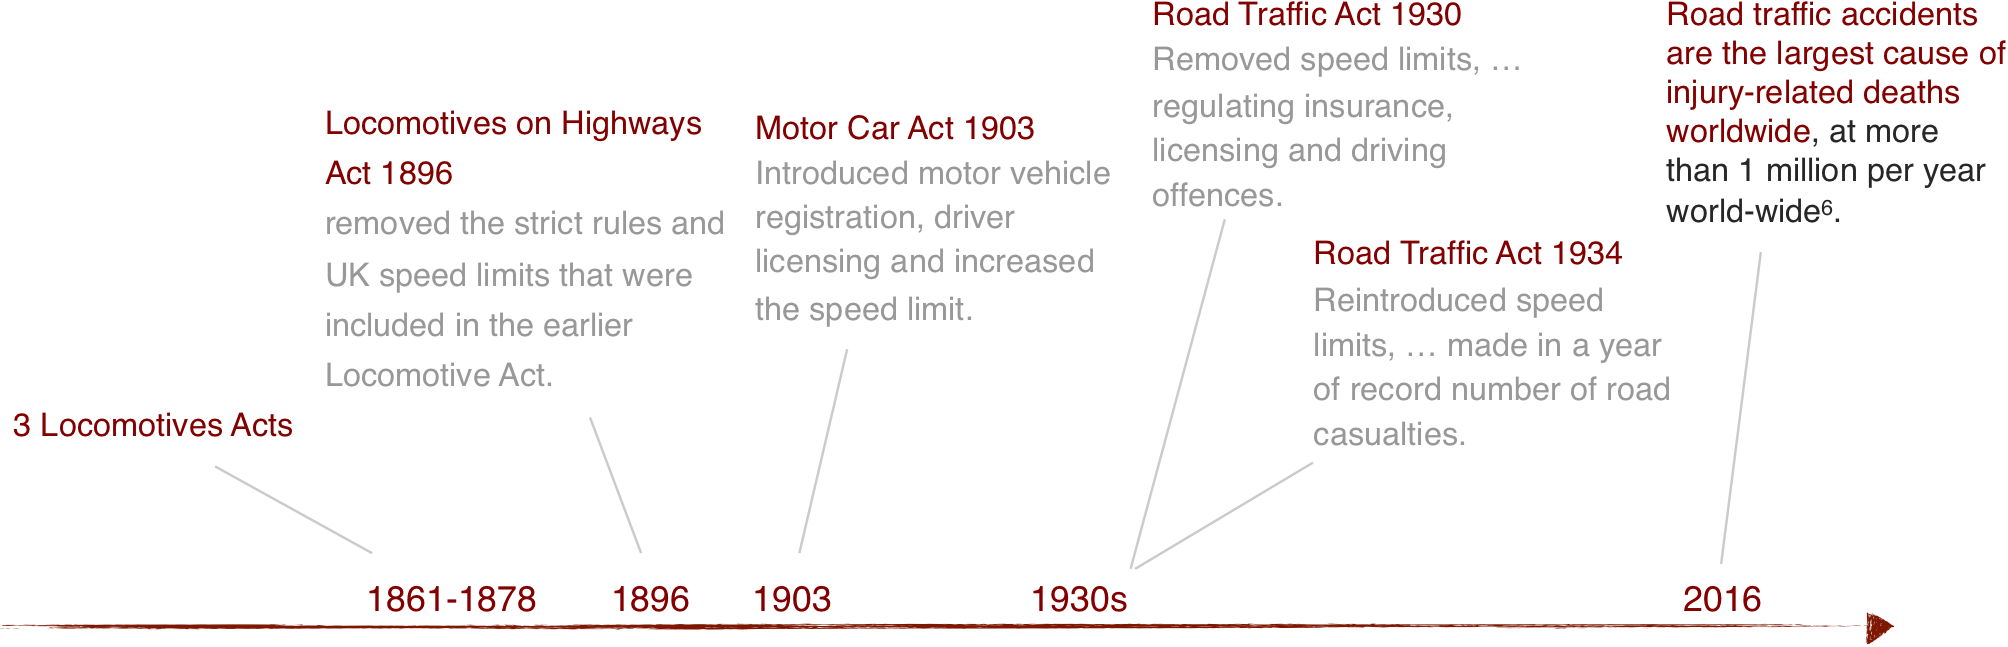
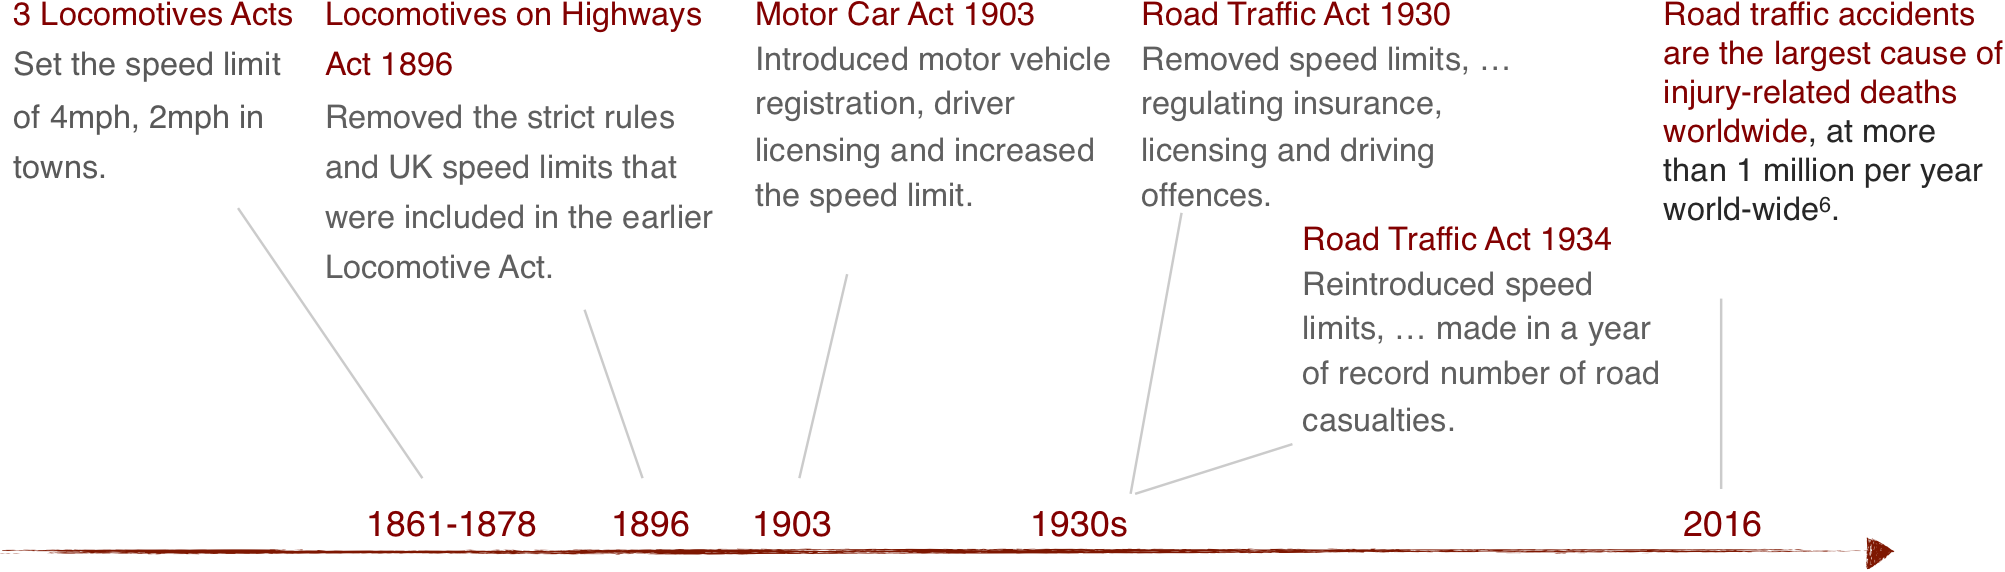
revised AI-cars post

diff --git a/content/post/ai_cars.md b/content/post/ai_cars.md
@@ -1,8 +1,8 @@
 ---
 title: "AI as ''Cars''? A Historic Analogy"
 description: "Three timelines in developing and adopting cars may shed light on what humanity would do with machine intelligence."
-date: "2019-07-01"
-draft: true
+date: "2019-07-10"
+draft: false
 categories:
   - "hmi"
   - "misc"
@@ -17,31 +17,35 @@ tags:
 <img style="float: left;"
 	src="/img/AI_cars/overview.png" Hspace="5" Vspace="10"><p />
   <small>
-    Fig. 1<sup>4</sup>: Overview of three evolving timelines in the development of cars. Top (green) - key events in the core component (engine) and systems (early car models). Middle (red) - key events in car and road-safety related legislation. Bottom (blue) - rough separation of eras in car styling. Key events selected from Wikipedia narratives on [cars](https://en.wikipedia.org/wiki/Car) and [history of the automobile](https://en.wikipedia.org/wiki/History_of_the_automobile)<sup>2</sup>. See article for discussion. For readability, time scales are not uniform.
+    Fig. 1<sup>4</sup>: Overview of three concurrently evolving timelines in the development of cars. Top (green) - key events in engine and early system developments. Middle (red) - key events in car and road-safety related legislations. Bottom (blue) - rough separation of eras in car styling. Key events selected from Wikipedia narratives on [cars](https://en.wikipedia.org/wiki/Car) and [history of the automobile](https://en.wikipedia.org/wiki/History_of_the_automobile)<sup>2</sup>. See article for discussion. For readability, time scales are not uniform.
   </small>
 
 <!--more-->
-AI (Artificial Intelligence) is entered everyday and media conversations in the past few years as both the boon and bane for our futures.
+In the past few years, AI (Artificial Intelligence) entered everyday conversations as both the boon and bane for our futures.
 <!-- s -->
-In this article, we narrate the development of cars since the 18th century as three concurrently evolving timelines<sup>2</sup> including the core technology, the legislation (and the needs driving it), and peripheral technologies.
+In this article, we draw a seemingly remote analogy between AI and cars.
 <!-- s -->
-All of these make the car a machine that we rely on and even enjoy in our daily lives.
+While separated by the software/hardware boundary, AI and cars are complex machinery that have been under rapid development for half a century or more, and is now (or will be) an integral part of our daily lives.
 <!-- s -->
-While on surface AI and cars are separated by the software/hardware boundary, both are very sophisticated machinery that have been under rapid development for half a century or more.
+We review the development of cars since the 18th century as three concurrently evolving timelines<sup>2</sup> including the core technology, the legislation (and the needs driving it), and peripheral components.
 <!-- s -->
-Both has fostered hope and fear that they will, or has already changed our lives and shaped our environment.
+The goal of the historical narrative is to highlight several similarities in the development of cars and AI,
+including the excitement of how new technology shape our world and the fear of its danger and negative effects.
+<!-- s -->
+The Chinese saying has it that one can use history as a mirror<sup>3</sup>, we hope this analogy will help the community reflect the path for AI and shape what may happen.
+<!-- s -->
 
-
+<!--
 We feel that this is the right time to reflect on the analogy physical and software machines,
-because our fears and worrries about AI wrecking harm bears resemblance with those experienced by our post industrial-revolution ancestors.
+because our fears and worries about AI wrecking harm bears resemblance with those experienced by our post industrial-revolution ancestors.
+s -->
+This post pays tribute to the recently launched ANU [Humanising Machine Intelligence](https://hmi.anu.edu.au/) (HMI) project.
 <!-- s -->
-The Chinese saying has it that one can use history as a mirror<sup>3</sup>, we hope this analogy will help the community think about the path forward for AI.
+The idea for writing it originated from a talk I gave at the invitation of HMI colleagues<sup>1</sup>.
 <!-- s -->
-In particular, this piece pays tribute to the recently launched ANU [Humanising Machine Intelligence](https://hmi.anu.edu.au/) (HMI) project。
-<!-- s -->
-Both because the idea for writing it originated from a workshop organised by HMI colleagues<sup>1</sup>,
-also because this post aims to engage readers in shaping the goals and approaches to humanising machine intelligence (MI) through a familiar machine.
-<!-- s -->
+We also aims to engage readers in shaping the goals and approaches to humanising machine intelligence (MI) through a familiar machine.
+<!-- s ... don't like the last sentence -->
+
 
 #### 1. Core components and systems
 
@@ -53,7 +57,7 @@ We start the discussion on cars from its core power source -- the engine.
 <figure class="asn-fig asn-left" style="max-width: 750px;">
     <img src="/img/AI_cars/engine.png">
     <figcaption>
-      Fig. 2: Timeline of early development activities for engines in the 1700s and 1800s and commercial automobile.
+      Fig. 2: Timeline of early development activities for engines in the 1700s and 1800s, and inception of the commercial automobile<sup>2</sup>.
     </figcaption>
 </figure>
 
@@ -77,7 +81,7 @@ The Ford Model T entered market in 1913, was the first mass produced and widely 
 
 One notable aspect of engine development is that many different technologies co-existed and co-evolved for a long period of time.
 <!-- s -->
-Take, for example, steam engines took on new energy in the 1950s when nuclear power became available for industrial use.
+Take, for example, steam engines had a revival in the 1950s when nuclear power became available for industrial use.
 <!-- s -->
 On the other hand, electric engines started in 1928, but it wasn't until the 2000s that they became widely available to the average driver.
 
@@ -89,37 +93,33 @@ Over the last few decades, many new algorithms are being invented and perfected 
 <!-- s -->
 The development of new algorithms will continue by the growing community of machine intelligence researchers.
 <!-- s -->
-We should expect a constant stream of incremental improvements for the currently most popular algorithm paradigm - neural networks, as well as occasional disruptive changes.
+We should expect a constant stream of incremental improvements for the currently most popular algorithm paradigm - such as neural networks, as well as occasional disruptive changes.
 <!-- s -->
-Take, for example, [electric cars](https://en.wikipedia.org/wiki/Electric_car) went from experimental to mass-market in the last decade, and [solar car](https://en.wikipedia.org/wiki/Solar_car) product was only recently [shown to public](https://www.engadget.com/2019/07/04/lightyear-one-solar-car-goodwood/).
+Take, for example, [electric cars](https://en.wikipedia.org/wiki/Electric_car) went from experimental to mass-market in the last decade, and [solar car](https://en.wikipedia.org/wiki/Solar_car) product was only recently [shown to public](https://www.engadget.com/2019/07/04/lightyear-one-solar-car-goodwood/). One may ask if another algorithm may replace neural networks soon?
 <!-- s -->
-For cars, multiple engine types, namely steam, electric, and internal combustion, coexisted for a long time.
+The coexistence of multiple core technologies also holds for machine intelligence algorithms -- not every machine learning problem needs a deep neural network -- generalised linear models, boosting and ensemble classifiers, kernel machines, and others will continue to play their roles in a variety of scenarios.
 <!-- s -->
-The same holds for machine intelligence algorithms -- not every machine learning problem needs a deep neural network, generalised linear models, boosting and ensemble classifiers, kernel machines, and others will continue to play their roles in a variety of scenarios.
-<!-- s -->
-What this implies is that students of machine learning should aim to build a broad foundation of different mathematical tools and decision-making paradigms, to be able to adapt and propel to the technolgy shifts in the future.
+What this implies is that students of machine learning should aim to build a broad foundation of different mathematical tools and decision-making paradigms, to be able to adapt and propel to the technology shifts in the future.
 
 <!-- s -->
-Our other observation is that whole-system prototypes and engines are developed simultaneously.
+We also observe that whole-system prototypes and engines are developed simultaneously.
 <!-- s -->
 Internet companies have been practicing building large online systems driven by machine intelligence algorithms for the past two decades or so.
 <!-- s -->
 Each large company has its home-brew machine learning systems and peripheral components.
-<!-- s -->
-As we now know many negative aspects including bias and unfair effects on their users have only recently been noticed.
-<!-- s -->
-Much of these systems and practices are so application specific that do not directly translate to other problem domains.
+<!-- s
+Much of these systems and practices are application specific and do not directly translate to other problem domains. -->
 <!-- s -->
 Cars has evolved for more than a decade (1885 to 1913) from being a niche product (Benz Motowagen) to a mass market (Ford Model T).
 <!-- s -->
-The technical community are working hard on comomon components and reusable systems, one may wonder what the "Model T" equivalent of machine learning looks like?
+The technical community are working hard on common components and reusable systems, one may wonder what the "Model T" equivalent of machine learning looks like?
 
 
 #### 2. Legislation
 
-An automobile consist of a many sophisticated parts working together, for mechanical efficiency, safety, and passenger comfort.
-<!-- s -->
-But every complex machine can fail, sometimes due to [faulty parts](https://www.toyota.com.au/news/toyota-australia-ahead-of-schedule-takata-airbag-recall-expansion), sometimes due to humans who are inside or outside the car.
+<!-- An automobile consist of a many sophisticated parts working together, for mechanical efficiency, safety, and passenger comfort.
+s -->
+Every complex machine can fail, sometimes due to [faulty parts](https://www.toyota.com.au/news/toyota-australia-ahead-of-schedule-takata-airbag-recall-expansion), sometimes due to humans who are inside or outside the car.
 <!-- s -->
 The history of car accidents and mishaps is as long as the history of the car itself.
 <!-- s -->
@@ -127,13 +127,14 @@ The [first fatal accident](https://en.wikipedia.org/wiki/Mary_Ward_(scientist)) 
 <!-- s -->
 The year 1896 saw the [first pedestrian fatality](https://en.wikipedia.org/wiki/Death_of_Bridget_Driscoll) in London when the car was traveling at 4 miles per hour.
 <!-- s -->
-Legislations on the behaviours of cars and humans in and around them developed after these unfortunate events and the need to integrate automobile to society.
-<!-- the above sentence is lame -->
+Legislations on the behaviours of cars and humans developed thereafter.  
+<!-- the need to integrate automobile to society.
+ the above sentence is lame -->
 
 <figure class="asn-fig asn-left" style="max-width: 800px;">
     <img src="/img/AI_cars/legislation.png">
     <figcaption>
-      Fig. 3: Timeline of development of automotive legislation<sup>5</sup>.
+      Fig. 3: Development timeline of early automotive legislations<sup>5</sup>.
     </figcaption>
 </figure>
 
@@ -146,7 +147,8 @@ The second edition [The Locomotive Act 1865](https://en.wikipedia.org/wiki/Locom
 This restriction essentially eliminated the advantage of cars over horse-drawn carriages,
 and was a result of powerful lobbying by those with interests in railways and horse-drawn vehicles.
 <!-- s -->
-[The Locomotives on Highways Act 1896](https://en.wikipedia.org/wiki/Locomotives_on_Highways_Act_1896) relaxed the speed limit to 14 mph, set in comparison to 'furious driving' of horse carriages.
+[The Locomotives on Highways Act 1896](https://en.wikipedia.org/wiki/Locomotives_on_Highways_Act_1896)
+relaxed the speed limit to 14 mph, set in comparison to 'furious driving' of horse carriages.
 <!-- s -->
 This event has been celebrated by motor enthusiasts with the [London to Brighton Run](https://en.wikipedia.org/wiki/London_to_Brighton_Veteran_Car_Run) to this day.
 <!-- s -->
@@ -156,7 +158,7 @@ In [1930](https://en.wikipedia.org/wiki/Road_Traffic_Act_1930), the speed limit 
 <!-- s -->
 The documented reason was that it was difficulty to enforce.
 <!-- s -->
-Four years later, in the face of a record number of road casualties (7,343 deaths and 231,603 injuries), [Road Traffic Act 1934](https://en.wikipedia.org/wiki/Road_Traffic_Act_1934) reintroduced a 30mph speed limit in built-up areas - a limit which is similar to those in use today.
+Four years later, in the face of a record number of road casualties (7,343 deaths and 231,603 injuries), [Road Traffic Act 1934](https://en.wikipedia.org/wiki/Road_Traffic_Act_1934) reintroduced a 30mph speed limit in built-up areas - a limit similar to those in use today.
 <!-- s -->
 
 Key measures of safety and liability was also developed in the same era, including car registration, classification of motor vehicles, driver licensing, driving test, requirement for insurance, driving offences, and others.
@@ -166,30 +168,40 @@ The automotive industry is heavily regulated.
 <!-- s -->
 Regulations cover how different components are designed, what safety features are included, and the overall performance of any given vehicle, such as noise and emission levels.
 <!-- s -->
-In addition, there are independent agencies who provide vehicles safety ratings and extensive consumer surveys on user ratings.  
+In addition, there are independent agencies who provide vehicles safety ratings and extensive consumer surveys on user ratings.
 <!-- s -->
-As recent incidents show, the regulation of machine intelligence systems is in its very early stages, if existing at all.
+As recent incidents show, the regulation of machine intelligence systems is in its very early stages.
 <!-- s -->
 One main part of existing regulation is around data protection and access restrictions.
 <!-- s -->
-But they are far from sufficient, when hidden attributes such as race and gender [can be inferred even if not explicitly collected](https://news.cornell.edu/stories/2019/01/study-ai-may-mask-racial-disparities-credit-lending).
+But they are far from sufficient, for instance, hidden attributes such as race and gender [can be inferred even if not explicitly collected](https://news.cornell.edu/stories/2019/01/study-ai-may-mask-racial-disparities-credit-lending).
+<!-- s -->
+Just like the [emission standards](https://en.wikipedia.org/wiki/Volkswagen_emissions_scandal), MI companies should be transparent on what data is collected and how its used.
+<!-- s -->
+The public should not be shocked at what [our voice assistants at home listens to](https://www.wired.com/story/whos-listening-talk-google-assistant/).
 <!-- s
 Another salient difference is the scale of influence of a machine intelligence system - which can affect thousands of people e.g. in a banking application, or all internet users, e.g. in online search. Compared to automobile safety, which each individual failure affects the driver, passenger, and people in their immediate physical surroundings.
 -->
 
-In addition to regulating the components and processes of the machine (cars), we also need regulations for people and behaviours around the machine. Such as drivers' license, penalties for reckless driving, and protocols for insurance and liability in general.
+In addition to regulating the components and processes of the machine (cars), we can ponder what the machine intelligence counterparts may be for behaviour and competence.
+<!-- we also need regulations for people and behaviours around the machine. Such as drivers' license, penalties for reckless driving, and protocols for insurance and liability in general.
+-->
 <!-- s -->
-In machine intelligence, should practitioners hold a license (a university-level course in the subject, a graduate degree, or something else), and be subjected to continuous monitoring (such as eye sight and cognitive abilities for driving a car)? Who should be liable for mishaps resulting from the machine intelligence system -- the practitioner, the company employing them, or the producer of the original algorithm?
+Should practitioners hold a license (or a university-level course in the subject, or a graduate degree), and be subjected to continuous monitoring (such as the learning and re-certification required for medical practitioners)?
+<!-- s -->
+Who should be liable for mishaps resulting from the machine intelligence system -- the practitioner, the company employing them, or the producer of the original algorithm?
 
 <!-- s -->
-There is considerable urgency for machine intelligence researchers, practitioners and society at large to understand the safety, moral and ethical implications of MI systems. Starting from requiring more transparency behind the effect of algorithms behind blackbox models in different companies, and devising standards and protocols for liability. The hope that this will happen more proactively, rather than reactively -- such as reacting to record number of accidents in the case of Road Traffic Act 1934.
+There is considerable urgency for machine intelligence researchers, practitioners and society at large to understand the safety, moral and ethical implications of MI systems.
+<!-- s -->
+The hope that this will happen more proactively, rather than reactively -- one hopes that we will do better than reacting to record number of accidents for Road Traffic Act 1934.
 
 
 #### 3. Peripheral components and eras of evolution
 
 It is estimated that over 100,000 patents created the modern automobile and motorcycle<sup>8</sup>.
 <!-- s -->
-Besides the chassis and [powertrain](https://en.wikipedia.org/wiki/Powertrain) that can be considered as the skeleton and muscular system of the car, many other components make the rest of the machine practical, comfortable and even enjoyable to drive (and ride).
+Besides the chassis and [powertrain](https://en.wikipedia.org/wiki/Powertrain) that can be considered as the skeleton and muscular system of the car, many other components make the rest of the machine practical, comfortable and even enjoyable to drive and ride.
 <!-- s -->
 Figure 4 lays out a timeline of the [five eras of invention](https://en.wikipedia.org/wiki/History_of_the_automobile#Eras_of_invention), and a non-exhaustive list of common components.
 
@@ -204,19 +216,19 @@ Figure 4 lays out a timeline of the [five eras of invention](https://en.wikipedi
 There are direct analogies from some of these parts to those in a machine intelligence system.
 <!-- s -->
 The notion of a dashboard is now commonplace in deployed machine learning systems<sup>9</sup>,
-the importance of which is underscored by well-publicized cases of drift and failure over time in non-mission critical systems<sup>10</sup>.
+the importance of which is underscored by well-publicized cases of data drift and prediction failure over time in non-mission critical systems<sup>10</sup>.
 <!-- s -->
-Other analogies may be still open for imagination, such as the counter-part of headlights, Antilock Breaking System (ABS), and others?
+Other analogies may be still open for imagination, such as the counter-part of headlights, Antilock Breaking System (ABS), and others.
 
-On the adoption and use of automobiles, the machine went from hobbist or requiring specialised knowledge to operate (chauffeurs) to being a skill that a large fraction of the population has.
+On the adoption and use of automobiles, the machine went from being operated by hobbist or requiring specialised knowledge to operate (chauffeurs) to being a skill that a large fraction of the population has.
 <!-- s -->
 In the understanding and maintenance of automobiles, on one hand the reliability improved so much that a driver no longer need to be prepared to stop on the road, pop the hood open, and supply crucial liquids (water, oil, fluid).
 <!-- s -->
 On the other hand, the contents of popular mechanics and fix-your-own-car videos has proliferated, that people can learn to fix many small problems via self-education.
 <!-- s -->
-One may ask, what will it take for machine learning to be both care-free and accessible for novices and enthusiasts alike?
+One may ask, what will it take for machine learning to be both accessible for novices and enthusiasts alike?
 
-Finally, one may ask what machine intelligence applications may evolved into, analogous to the diverse style and function landscape of automobiles, e.g., 4-wheel drives, sedans, convertibles, SUVs, pickups, vans, buses, or even [road trains](https://en.wikipedia.org/wiki/Road_train)?
+Finally, one may ask what machine intelligence applications may evolved into, analogous to the diverse style and function landscape of automobiles, e.g., 4-wheel drives, convertibles, SUVs, trucks, vans, buses, or even [road trains](https://en.wikipedia.org/wiki/Road_train)?
 
 
 #### Parting thoughts
@@ -227,11 +239,13 @@ This is despite the fact that automobiles brought dramatic changes in how we tra
 
 The recent development on AI and machine intelligence may seem scary because much of their effects and implications are unknown.
 <!-- s -->
-One may think that in the early 20th century, people may have approached cars with the same level of apprehension.
+In the early 20th century, people have approached cars with the same level of apprehension.
 <!-- s -->
 The not-so-short history on how humans _humanised_ cars may offer a few fruitful thoughts on how we should humanise machine intelligence.
 <!-- s -->
 This is a timely subject that needs curious inquiries, in-depth thinking and lively debates from students, the public, policy makers and researchers all alike.
+<!-- s -->
+One place for such thinking and debate is the [HMI project](https://hmi.anu.edu.au/), stay tuned!
 
 <!--
 end with another plug for HMI
